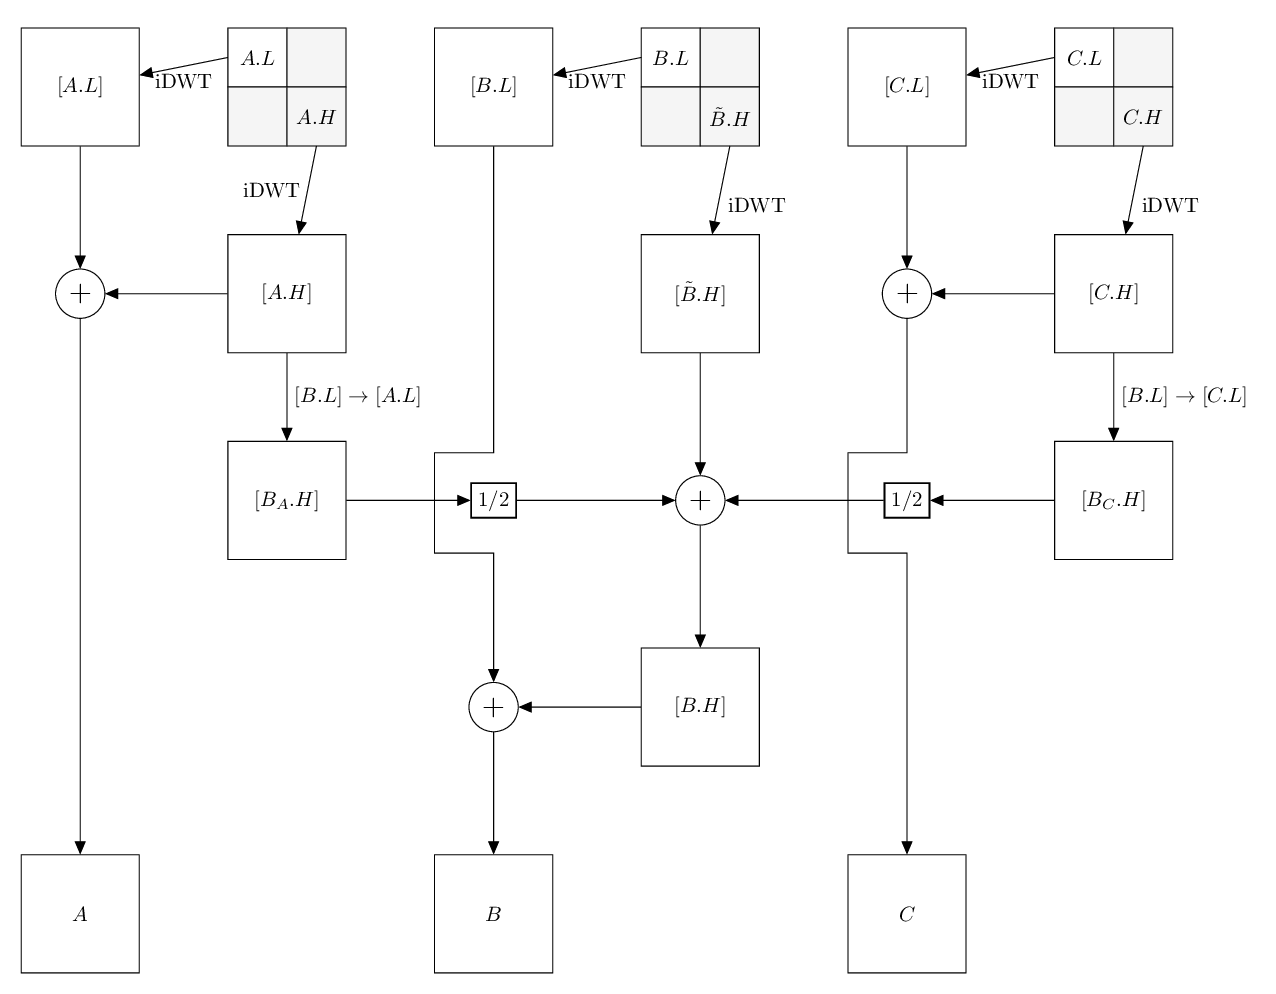
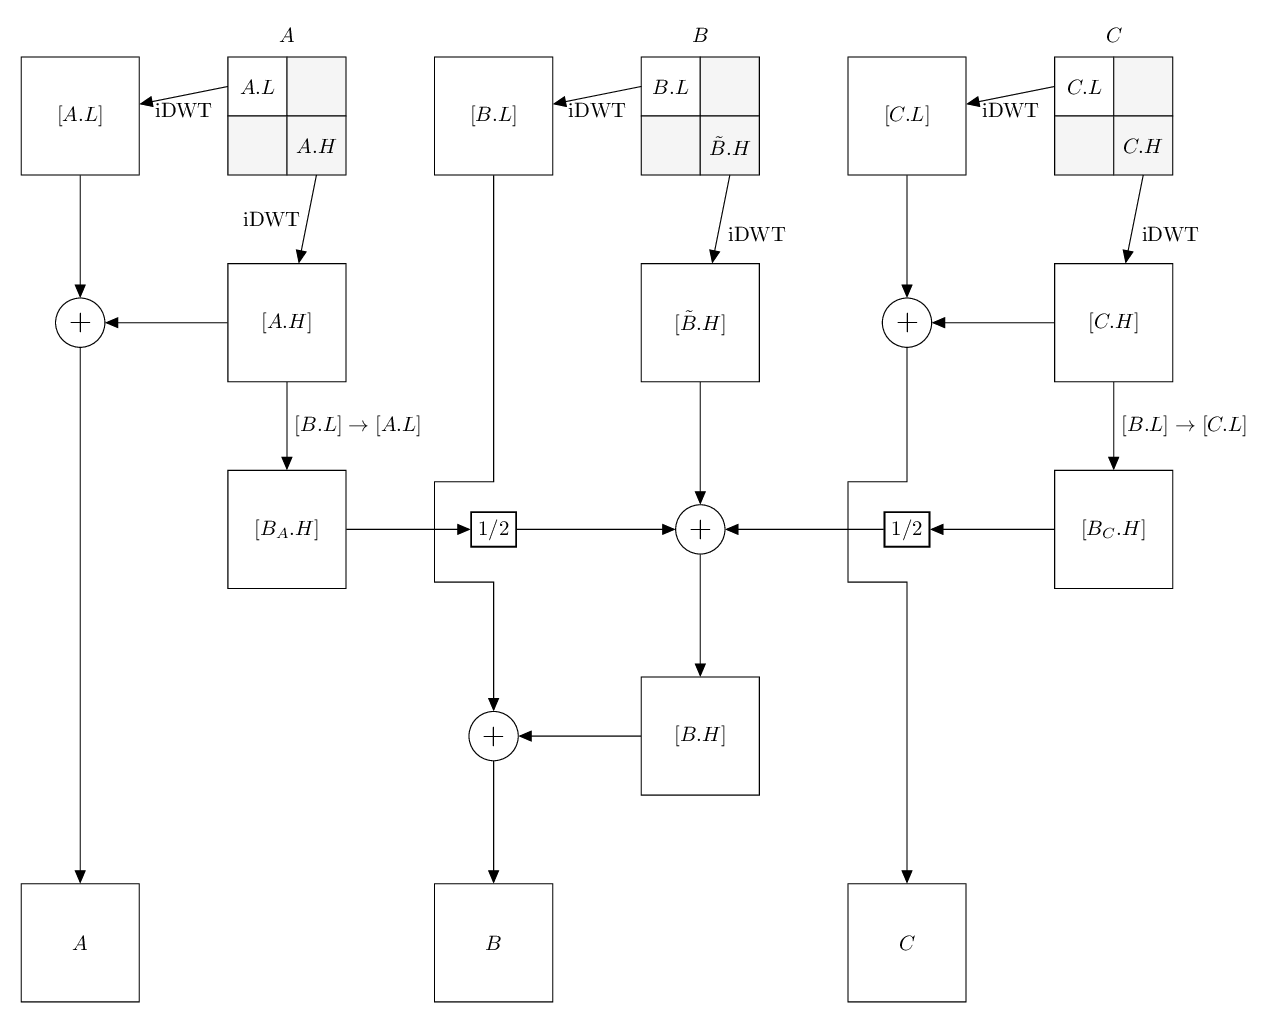
.

diff --git a/backward.tex b/backward.tex
@@ -31,11 +31,11 @@
 \begin{tikzpicture}[auto, >=triangle 45]
 
   \draw node [block] (AL) {$[A.L]$};
-  \draw node [node distance=3.5cm, right of=AL] (DWTA) {\DWT{A.L}{A.H}};
+  \draw node [node distance=3.5cm, right of=AL, label=$A$] (DWTA) {\DWT{A.L}{A.H}};
   \draw node [block, right of=DWTA] (BL) {$[B.L]$};
-  \draw node [node distance=3.5cm, right of=BL] (DWTB) {\DWT{B.L}{\tilde{B}.H}};
+  \draw node [node distance=3.5cm, right of=BL, label=$B$] (DWTB) {\DWT{B.L}{\tilde{B}.H}};
   \draw node [block, right of=DWTB] (CL) {$[C.L]$};
-  \draw node [node distance=3.5cm, right of=CL] (DWTC) {\DWT{C.L}{C.H}};
+  \draw node [node distance=3.5cm, right of=CL, label=$C$] (DWTC) {\DWT{C.L}{C.H}};
   \draw node [block, below of=DWTA] (AH) {$[A.H]$};
   \draw node [block, below of=DWTB] (BHp) {$[\tilde{B}.H]$};
   \draw node [block, below of=DWTC] (CH) {$[C.H]$};
